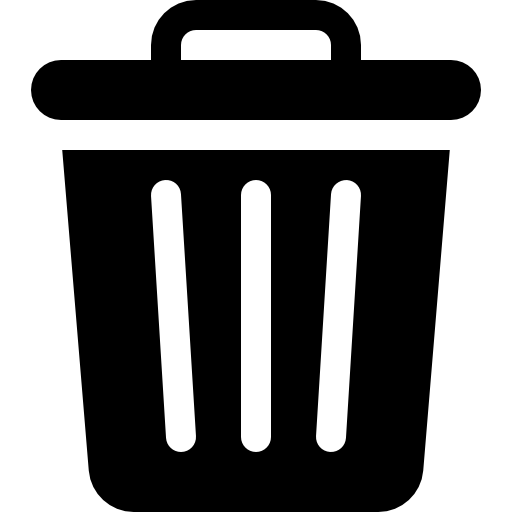
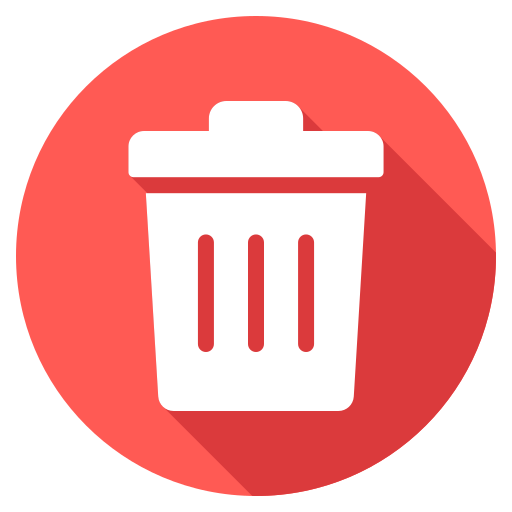
feat: Added DeleteTasks to frontend, replaces some pngs, fixed timezone in api calls

diff --git a/taskscope-client/src/store/slices/tasksSlice.ts b/taskscope-client/src/store/slices/tasksSlice.ts
@@ -5,7 +5,7 @@ import type { TaskEntityDto } from "../../models/tasks/TaskEntityDto";
 import type { CreateTaskDto } from "../../models/tasks/CreateTaskDto";
 import type { UpdateTaskDto } from "../../models/tasks/UpdateTaskDto";
 import { TaskEntityStatus } from "../../models/enums/TaskEntityStatus";
-import { getTodaysTasks, getUpcomingTasks, updateTaskStatus, createTask, updateTask } from "../../services/tasksService";
+import { getTodaysTasks, getUpcomingTasks, updateTaskStatus, createTask, updateTask, deleteTask as deleteTaskApi } from "../../services/tasksService";
 import { linkTagToTask, unlinkTagFromTask } from "./taskTagsSlice";
 
 interface TasksState {
@@ -15,6 +15,7 @@ interface TasksState {
     error: string | null;
     isModalOpen: boolean;
     editingTask: TaskEntityDto | null;
+    isDeleteConfirmOpen: boolean;
 }
 
 const initialState: TasksState = {
@@ -28,6 +29,7 @@ const initialState: TasksState = {
     error: null,
     isModalOpen: false,
     editingTask: null,
+    isDeleteConfirmOpen: false,
 };
 
 // thunks
@@ -91,6 +93,18 @@ export const editTask = createAsyncThunk(
     }
 );
 
+export const deleteTask = createAsyncThunk(
+    'tasks/deleteTask',
+    async (taskId: string, { rejectWithValue }) => {
+        try {
+            await deleteTaskApi(taskId);
+            return taskId;
+        } catch (error) {
+            return rejectWithValue('Failed to delete task');
+        }
+    }
+);
+
 const tasksSlice = createSlice({
     name: 'tasks',
     initialState,
@@ -109,6 +123,12 @@ const tasksSlice = createSlice({
         closeTaskModal: (state) => {
             state.isModalOpen = false;
             state.editingTask = null;
+        },
+        openDeleteConfirm: (state) => {
+            state.isDeleteConfirmOpen = true;
+        },
+        closeDeleteConfirm: (state) => {
+            state.isDeleteConfirmOpen = false;
         },
     },
     extraReducers: (builder) => {
@@ -273,8 +293,31 @@ const tasksSlice = createSlice({
                 state.upcomingTasks[upcomingIndex] = updatedTask;
             }
         });
+
+        // Delete task
+        builder.addCase(deleteTask.fulfilled, (state, action) => {
+            const taskId = action.payload;
+            
+            // Remove from todayTasks
+            for (const status in state.todayTasks) {
+                const statusKey = status as keyof TasksGroupedByStatus;
+                state.todayTasks[statusKey] = state.todayTasks[statusKey].filter(t => t.id !== taskId);
+            }
+            
+            // Remove from upcomingTasks
+            state.upcomingTasks = state.upcomingTasks.filter(t => t.id !== taskId);
+            
+            // Close modal and clear editing task
+            state.isModalOpen = false;
+            state.editingTask = null;
+            state.isDeleteConfirmOpen = false;
+        });
+        builder.addCase(deleteTask.rejected, (state, action) => {
+            state.error = action.payload as string;
+            state.isDeleteConfirmOpen = false;
+        });
     }
 });
 
-export const { clearError, openCreateTaskModal, openEditTaskModal, closeTaskModal } = tasksSlice.actions;
+export const { clearError, openCreateTaskModal, openEditTaskModal, closeTaskModal, openDeleteConfirm, closeDeleteConfirm } = tasksSlice.actions;
 export default tasksSlice.reducer;

diff --git a/taskscope-client/src/services/tasksService.ts b/taskscope-client/src/services/tasksService.ts
@@ -39,3 +39,9 @@ export async function getTaskById(taskId: string): Promise<TaskEntityDto> {
     const response = await apiClient.get(`/Tasks/${taskId}`);
     return response.data;
 }
+
+export async function deleteTask(taskId: string): Promise<void> {
+    await apiClient.delete(`/Tasks`, {
+        params: { taskId }
+    });
+}

diff --git a/TaskScope.BLL/MediatR/Tasks/GetTodayAndOverdueGroupedByStatus/GetTodayAndOverdueTasksGroupedByStatusHandler.cs b/TaskScope.BLL/MediatR/Tasks/GetTodayAndOverdueGroupedByStatus/GetTodayAndOverdueTasksGroupedByStatusHandler.cs
@@ -19,6 +19,8 @@ public class GetTodayAndOverdueTasksGroupedByStatusHandler : IRequestHandler<Get
     } 
     public async Task<Result<Dictionary<TaskEntityStatus, List<TaskEntityDto>>>> Handle(GetTodayAndOverdueTasksGroupedByStatusQuery request, CancellationToken cancellationToken) 
     { 
+        var utcPlus2 = TimeZoneInfo.FindSystemTimeZoneById("E. Europe Standard Time");
+        var today = TimeZoneInfo.ConvertTime(DateTime.UtcNow, utcPlus2).Date;
         var tasks = await _repositoryWrapper.TaskRepository.GetTodayAndOverdueAsync(); 
         var taskDtos = _mapper.Map<IEnumerable<TaskEntityDto>>(tasks); 
         var grouped = taskDtos

diff --git a/TaskScope.BLL/MediatR/Tasks/GetUpcomingTasks/GetUpcomingTasksHandler.cs b/TaskScope.BLL/MediatR/Tasks/GetUpcomingTasks/GetUpcomingTasksHandler.cs
@@ -19,7 +19,8 @@ public class GetUpcomingTasksHandler : IRequestHandler<GetUpcomingTasksQuery, Re
 
     public async Task<Result<List<TaskEntityDto>>> Handle(GetUpcomingTasksQuery request, CancellationToken cancellationToken)
     {
-        var today = DateTime.UtcNow.Date;
+        var utcPlus2 = TimeZoneInfo.FindSystemTimeZoneById("E. Europe Standard Time");
+        var today = TimeZoneInfo.ConvertTime(DateTime.UtcNow, utcPlus2).Date;
         var tasks = await _repositoryWrapper.TaskRepository.GetAllAsync(startDate: today.AddDays(1));
         var taskDtos = _mapper.Map<List<TaskEntityDto>>(tasks);
 
